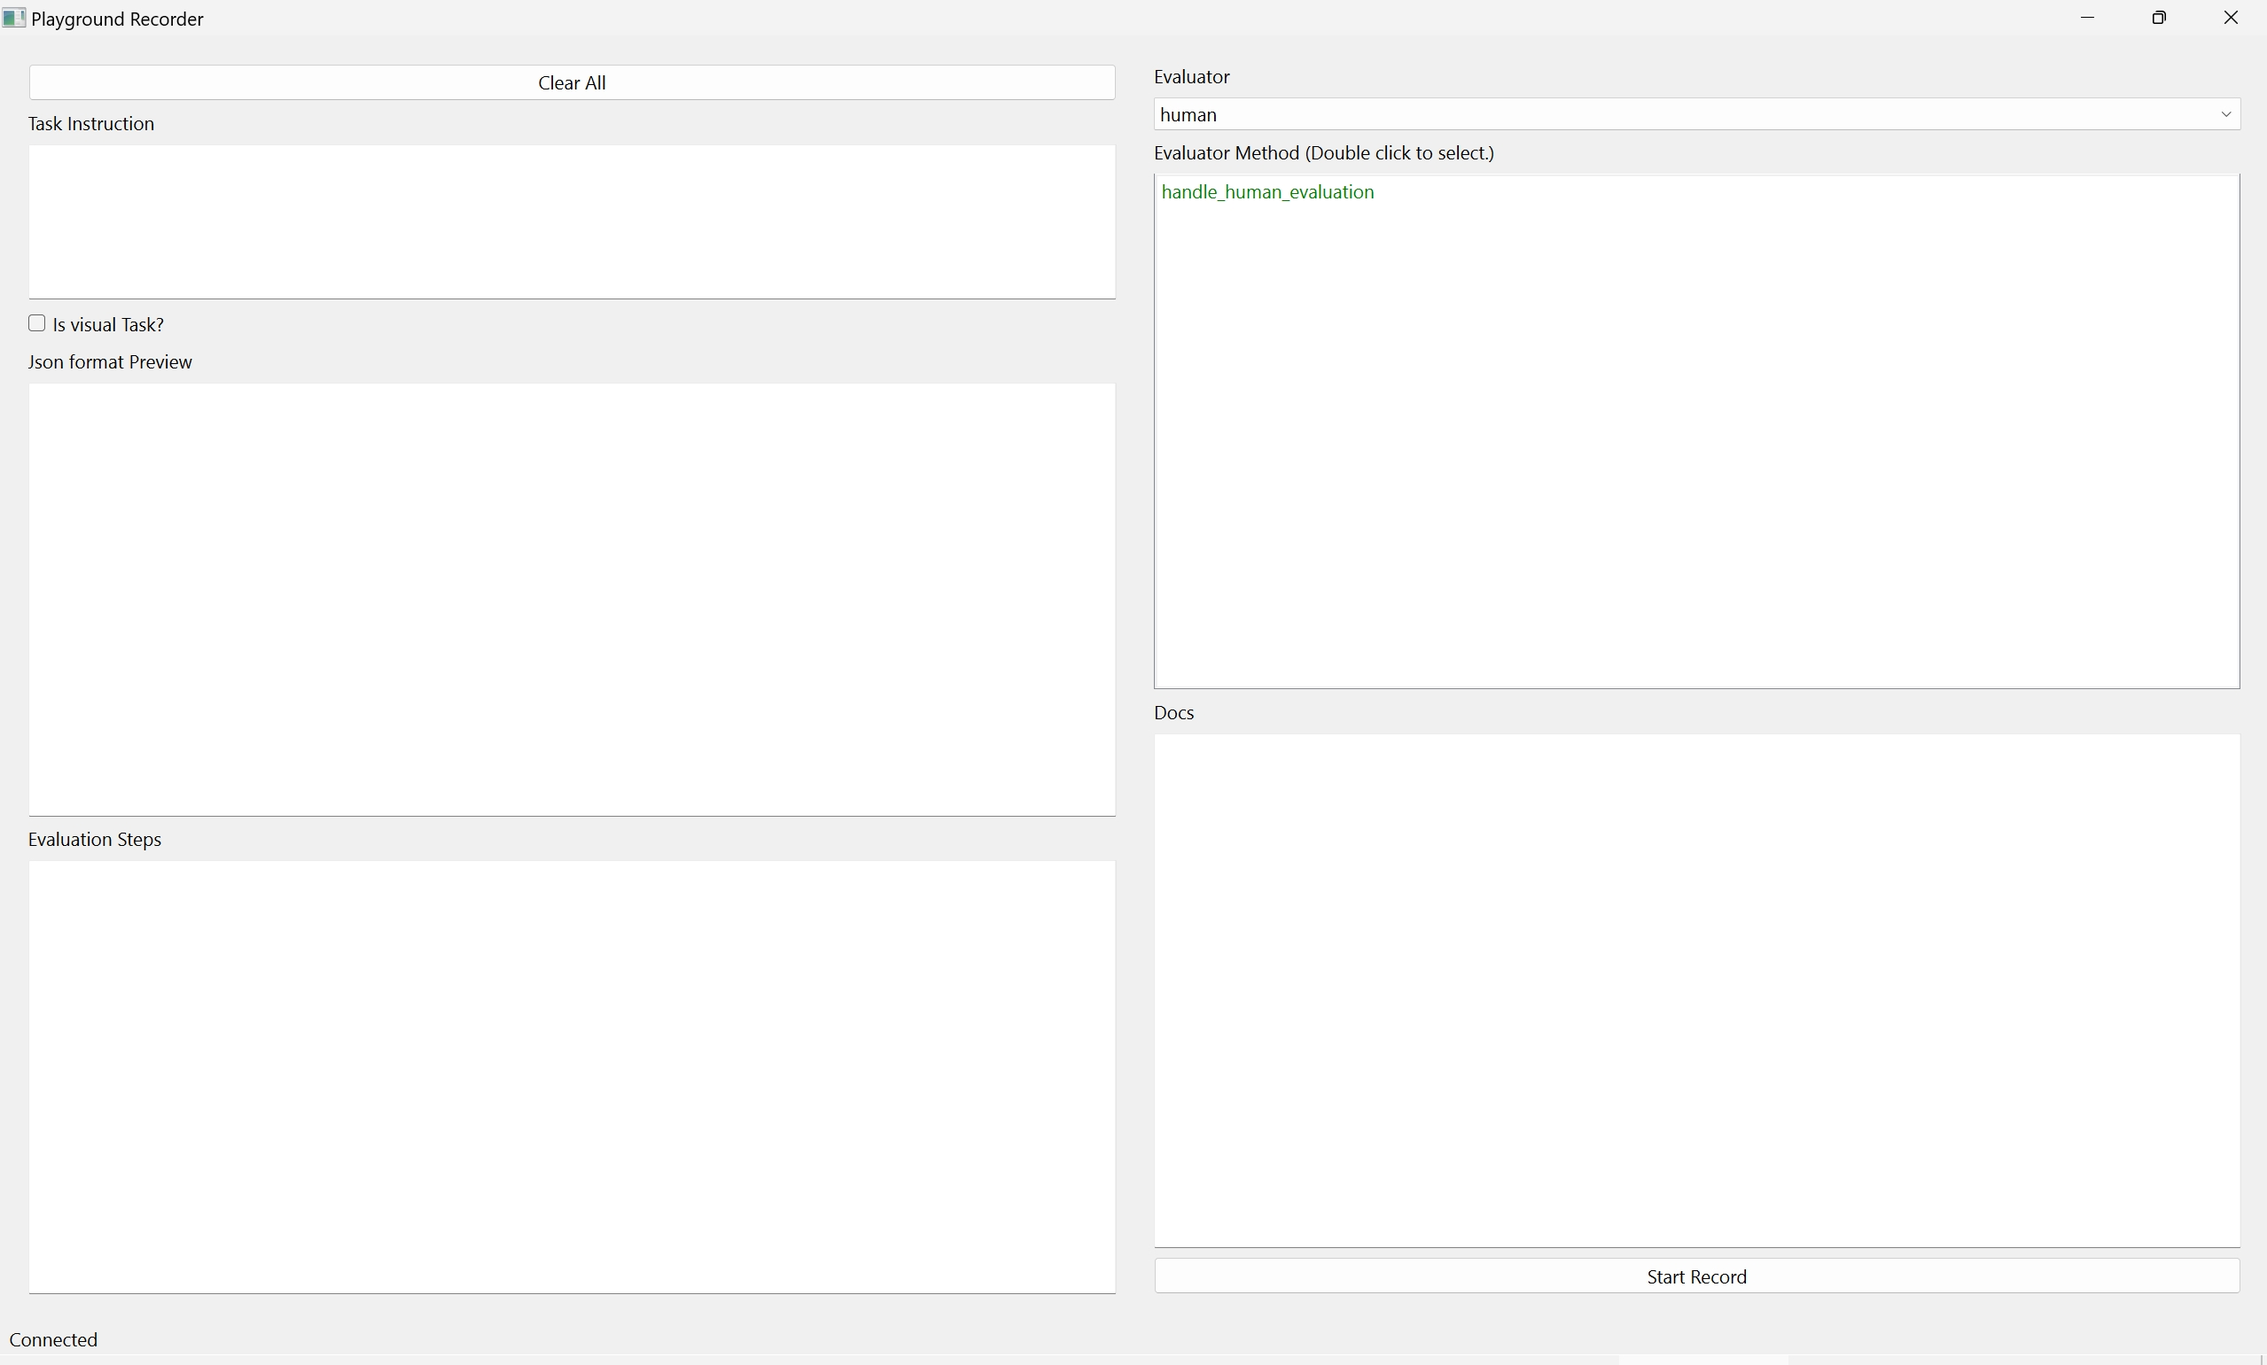
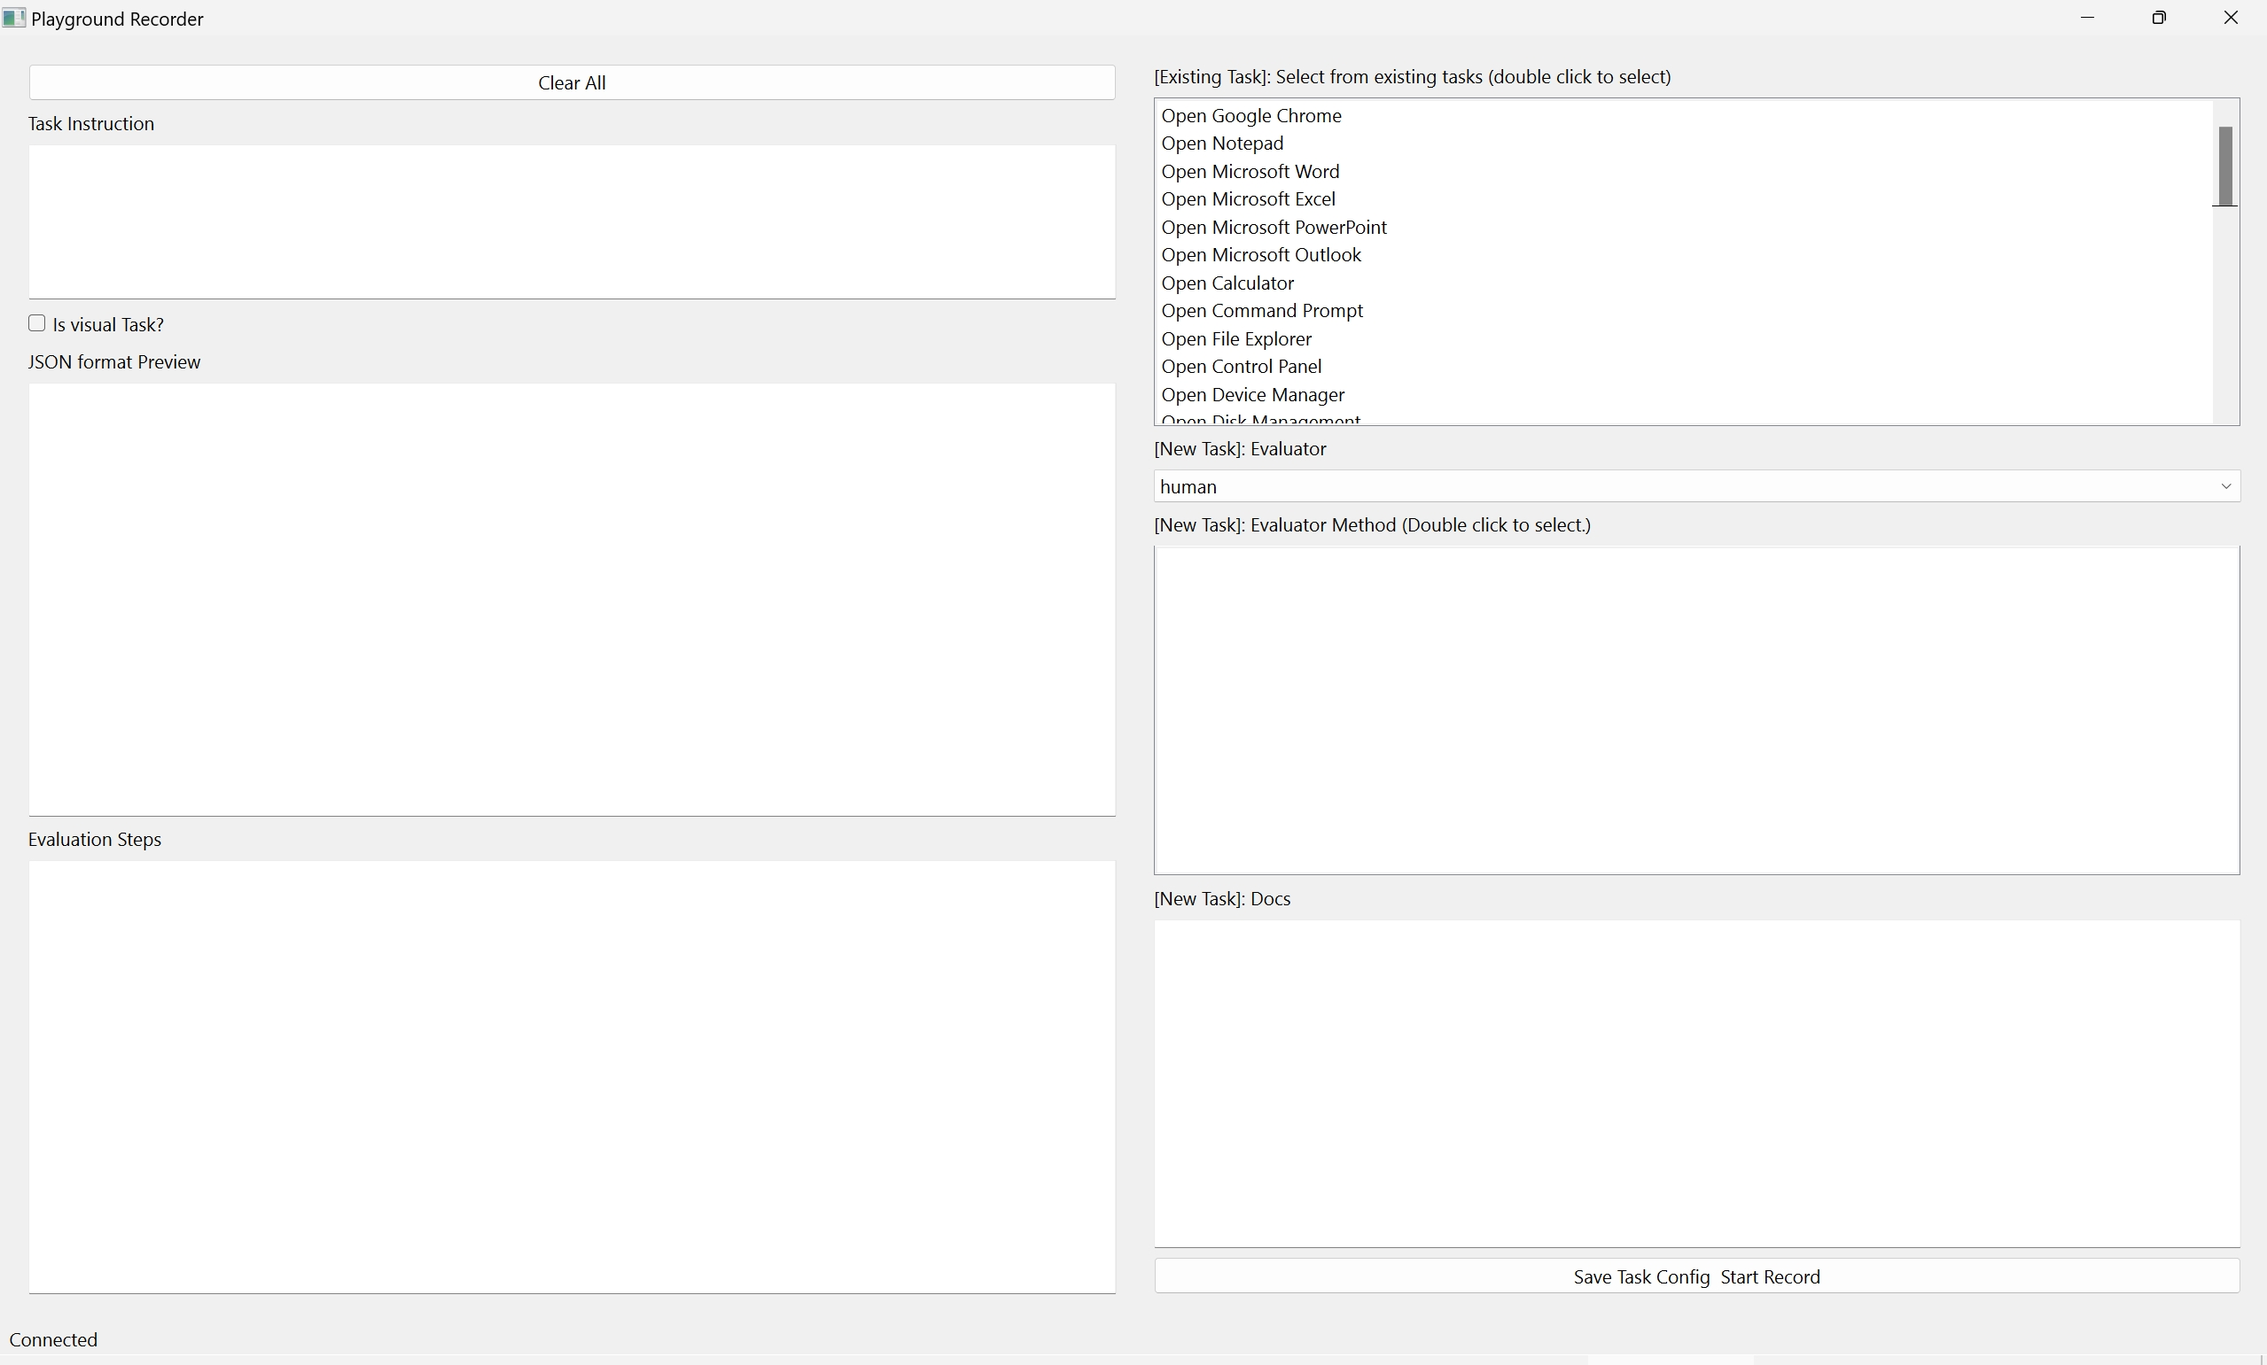
update human interface

diff --git a/playground/env/desktop_env/human_interface.py b/playground/env/desktop_env/human_interface.py
@@ -7,10 +7,11 @@ import os
 import sys
 import uuid
 from asyncio import open_connection
+from pathlib import Path
 
 import numpy as np
 import requests
-from PyQt6.QtCore import QTimer
+from PyQt6.QtCore import QTimer, QThread, pyqtSignal, QObject
 from PyQt6.QtGui import QColor, QImage
 from PyQt6.QtWidgets import (
     QCheckBox,
@@ -33,10 +34,50 @@ from playground.agent.human_agent import HumanAgent
 from playground.config.config import Config
 from playground.env.desktop_env.vnc_client import VNCClient, VNCFrame
 from playground.utils.communication import PlaygroundResponse
-from playground.utils.json_utils import add_jsonl, export_trajectories, format_json
+from playground.utils.json_utils import (
+    add_jsonl,
+    export_trajectories,
+    format_json,
+    read_jsonl,
+)
 
 config = Config()
 logger = logging.getLogger(__name__)
+
+class WorkerSignals(QObject):
+    status_bar_signal = pyqtSignal(str, str)
+    next_action_editor_signal = pyqtSignal(bool)
+    save_button_signal = pyqtSignal(bool)
+    step_action_button_signal = pyqtSignal(bool)
+
+class ResetThread(QThread):
+    def __init__(
+        self,
+        signals: WorkerSignals,
+    ):
+        super().__init__()
+        self.signals = signals
+
+    def run(self):
+        # reset remote runtime
+        self.signals.status_bar_signal.emit(
+            "color: green;", "Task: Resetting runtime..."
+        )
+        response_raw = requests.post(
+            f"http://{config.env_server_addr}:{config.env_server_port}/runtime/reset"
+        )
+        response = PlaygroundResponse(**response_raw.json())
+        assert (
+            response.status == "success"
+        ), f"Fail to reset runtime: {response_raw.text}"
+
+        self.signals.status_bar_signal.emit(
+            "color: green;", "Task: Ready"
+        )
+
+        self.signals.next_action_editor_signal.emit(True)
+        self.signals.save_button_signal.emit(True)
+        self.signals.step_action_button_signal.emit(True)
 
 
 # Function to parse the Python file and extract required information
@@ -115,9 +156,17 @@ def parse_python_file(file_path):
 
 class Task:
     def __init__(
-        self, instruction: str, trajectory: list[str], evals: list[dict], visual: bool
+        self,
+        instruction: str,
+        trajectory: list[str],
+        evals: list[dict],
+        visual: bool,
+        task_id: str | None = None,
     ) -> None:
-        self.task_id = str(uuid.uuid4())
+        if task_id is None:
+            self.task_id = str(uuid.uuid4())
+        else:
+            self.task_id = task_id
         self.instruction = instruction
         self.trajectory = trajectory
         self.evals = evals
@@ -157,12 +206,18 @@ class HumanInterface(QMainWindow):
         self.refreshing_screen = False  # need for refresh flag
         self.last_message = ""
         self.task_config_path = task_config_path
+        self.current_thread: ResetThread | None = None
+        self.task_status_bar: QLabel
+
+        # Task
+        self.selected_task: dict | None = None
+        self.task_configs: list[dict] = []
+        self.current_task: Task | None = None
 
         # VNC
         self.record_path = record_path
         self.vnc: None | VNCClient = None
         self.vnc_lock = asyncio.Lock()
-        self.current_task: Task | None = None
 
         self.evaluator_infos: dict[str, list[dict]] = {}
         self.load_evaluator_args()
@@ -187,6 +242,10 @@ class HumanInterface(QMainWindow):
         main_layout = QHBoxLayout(central_widget)
 
         self.status_bar: QStatusBar = self.statusBar()
+        assert self.status_bar is not None
+
+        self.task_status_bar = QLabel()
+        self.status_bar.addPermanentWidget(self.task_status_bar)
 
         self.vnc_container = QWidget()
         left_layout = QVBoxLayout(self.vnc_container)
@@ -229,26 +288,31 @@ class HumanInterface(QMainWindow):
         self.evaluator_sel_container = QWidget()
         evaluator_sel_layout = QVBoxLayout(self.evaluator_sel_container)
 
-        evaluator_sel_layout.addWidget(QLabel("Evaluator"))
+        evaluator_sel_layout.addWidget(QLabel("[Existing Task]: Select from existing tasks (double click to select)"))
+        self.existing_task_list = QListWidget()
+        self.existing_task_list.itemDoubleClicked.connect(self.task_list_double_clicked)
+        evaluator_sel_layout.addWidget(self.existing_task_list)
+
+        evaluator_sel_layout.addWidget(QLabel("[New Task]: Evaluator"))
         self.evaluator_dropdown = QComboBox()
         self.evaluator_dropdown.addItems(list(self.evaluator_infos.keys()))
         self.evaluator_dropdown.currentIndexChanged.connect(self.evaluator_changed)
         evaluator_sel_layout.addWidget(self.evaluator_dropdown)
 
         evaluator_sel_layout.addWidget(
-            QLabel("Evaluator Method (Double click to select.)")
+            QLabel("[New Task]: Evaluator Method (Double click to select.)")
         )
         self.eval_method_list = QListWidget()
         self.eval_method_list.currentItemChanged.connect(self.list_item_changed)
-        self.eval_method_list.itemDoubleClicked.connect(self.list_item_double_clicked)
+        self.eval_method_list.itemDoubleClicked.connect(self.method_list_double_clicked)
         evaluator_sel_layout.addWidget(self.eval_method_list)
 
-        evaluator_sel_layout.addWidget(QLabel("Docs"))
+        evaluator_sel_layout.addWidget(QLabel("[New Task]: Docs"))
         self.eval_method_doc_display = QTextEdit(self)
         self.eval_method_doc_display.setReadOnly(True)
         evaluator_sel_layout.addWidget(self.eval_method_doc_display)
 
-        self.start_button = QPushButton("Start Record")
+        self.start_button = QPushButton("Save Task Config/Start Record")
         self.start_button.clicked.connect(self.start_record)
         evaluator_sel_layout.addWidget(self.start_button)
 
@@ -301,18 +365,21 @@ class HumanInterface(QMainWindow):
         self.eval_steps_display.setReadOnly(False)
         self.output_display.clear()
         self.output_display.setEnabled(False)
-        self.start_button.setEnabled(True)
+        self.evaluator_changed(0)
+        self.evaluator_dropdown.setEnabled(True)
         self.eval_method_list.clear()
+        self.eval_method_list.setEnabled(True)
         self.save_button.setEnabled(False)
         self.step_action_button.setEnabled(False)
         self.is_visual_checkbox.setEnabled(True)
         self.current_task = None
+        self.selected_task = None
         self.trajectory_container.hide()
         self.vnc_container.hide()
         self.evaluator_sel_container.show()
         self.json_preview_label.show()
         self.json_preview_display.show()
-        self.evaluator_changed(0)
+        self.populate_instruction_selection_widget()
 
     def start_record(self) -> None:
         """Starts the record."""
@@ -334,30 +401,42 @@ class HumanInterface(QMainWindow):
         self.json_preview_label.hide()
         self.json_preview_display.hide()
         self.instruction_editor.setReadOnly(True)
-        self.next_action_editor.setEnabled(True)
         self.output_display.setEnabled(True)
         self.trajectory_display.setEnabled(True)
         self.eval_steps_display.setReadOnly(True)
-        self.start_button.setEnabled(False)
-        self.save_button.setEnabled(True)
-        self.step_action_button.setEnabled(True)
+        self.save_button.setEnabled(False)
+        self.step_action_button.setEnabled(False)
         self.is_visual_checkbox.setEnabled(False)
 
+        if self.selected_task is not None:
+            task_id = self.selected_task["task_id"]
+        else:
+            task_id = None
         self.current_task = Task(
             instruction=self.instruction_editor.toPlainText(),
             trajectory=[],
             evals=evals,
             visual=self.is_visual_checkbox.isChecked(),
+            task_id=task_id,
         )
+        if self.selected_task is None:
+            add_jsonl([self.current_task.to_task_config()], self.task_config_path)
         self.agent.reset(self.current_task.instruction)
-        # reset remote runtime
-        response_raw = requests.post(
-            f"http://{config.env_server_addr}:{config.env_server_port}/runtime/reset"
+        self.worker_signals = WorkerSignals()
+        self.worker_signals.status_bar_signal.connect(self.set_task_status_bar_text)
+        self.worker_signals.next_action_editor_signal.connect(
+            self.next_action_editor.setEnabled
         )
-        response = PlaygroundResponse(**response_raw.json())
-        assert (
-            response.status == "success"
-        ), f"Fail to reset runtime: {response_raw.text}"
+        self.worker_signals.save_button_signal.connect(self.save_button.setEnabled)
+        self.worker_signals.step_action_button_signal.connect(
+            self.step_action_button.setEnabled
+        )
+        self.current_thread = ResetThread(self.worker_signals)
+        self.current_thread.start()
+
+    def set_task_status_bar_text(self, color: str, text: str) -> None:
+        self.task_status_bar.setStyleSheet(color)
+        self.task_status_bar.setText(text)
 
     def load_evaluator_args(
         self,
@@ -407,7 +486,35 @@ class HumanInterface(QMainWindow):
                     self.eval_method_doc_display.setText(docs)
                     break
 
-    def list_item_double_clicked(self, item: QListWidgetItem) -> None:
+    def load_existing_task_configs(self) -> None:
+        jsonl_path = Path(self.task_config_path)
+        if jsonl_path.exists():
+            self.task_configs = read_jsonl(jsonl_path.as_posix())
+        else:
+            self.task_configs = []
+
+    def populate_instruction_selection_widget(self) -> None:
+        self.load_existing_task_configs()
+        self.existing_task_list.clear()
+        for task_config in self.task_configs:
+            item = QListWidgetItem(task_config["instruction"])
+            self.existing_task_list.addItem(item)
+
+    def task_list_double_clicked(self, item: QListWidgetItem) -> None:
+        self.task_instruction = item.text()
+        selected_task_idx = self.existing_task_list.currentRow()
+        self.selected_task = self.task_configs[selected_task_idx]
+        self.eval_steps_display.setPlainText(f"{format_json(self.selected_task['evals'])}")
+        self.is_visual_checkbox.setChecked(self.selected_task["visual"])
+        self.instruction_editor.setPlainText(self.selected_task["instruction"])
+        self.instruction_editor.setReadOnly(True)
+        self.evaluator_dropdown.setEnabled(False)
+        self.eval_method_list.setEnabled(False)
+        self.eval_steps_display.setReadOnly(True)
+        self.is_visual_checkbox.setEnabled(False)
+        self.instruction_editor.setReadOnly(True)
+
+    def method_list_double_clicked(self, item: QListWidgetItem) -> None:
         function_name = item.text()
         evaluator_name = self.evaluator_dropdown.currentText()
         for func in self.evaluator_infos[evaluator_name]:
@@ -470,7 +577,6 @@ class HumanInterface(QMainWindow):
         """Saves the trajectory to the record path."""
         assert self.current_task is not None
         self.step_action_button.setEnabled(False)
-        add_jsonl([self.current_task.to_task_config()], self.task_config_path)
         export_trajectories(
             self_eval_results=None,
             task_config=self.current_task.to_record(),

diff --git a/playground/env/desktop_env/vnc_client.py b/playground/env/desktop_env/vnc_client.py
@@ -61,7 +61,7 @@ async def read_text(reader: StreamReader, encoding: str) -> str:
 
 
 async def skip_to_eof(reader: StreamReader):
-    print("[asyncvnc] skip to eof")
+    logger.warn("[asyncvnc] skip to eof")
     await reader.read(-1)
 
 
@@ -89,7 +89,7 @@ class Clipboard:
         """
         Sends clipboard text to the server.
         """
-        print("[asyncvnc] send clipboard text: ", text)
+        logger.info("[asyncvnc] send clipboard text: ", text)
         data = text.encode("latin-1")
         self.writer.write(b"\x06\x00" + len(data).to_bytes(4, "big") + data)
 
@@ -191,7 +191,6 @@ class Video:
         compress_code_send_message = (
             b"\x02\x00" + compress_code_num_bytes + b"".join(compress_code)
         )
-        print(compress_code_send_message)
         writer.write(compress_code_send_message)
 
         decompress = decompressobj().decompress
@@ -588,7 +587,7 @@ class VNCClient:
             type_id = await read_int(self.reader, 1)
             update_type = UpdateType(type_id)
         except ValueError:
-            print(f"No such type_id: type_id: {type_id}")
+            logger.warn(f"No such type_id: type_id: {type_id}")
             await skip_to_eof(self.reader)
             return None
 

diff --git a/playground/config/config.py b/playground/config/config.py
@@ -15,8 +15,8 @@ class Config(metaclass=Singleton):
     minimal_action_interval: float = 3.0
 
     task_config_paths: dict = {
+        # "desktop": "playground_data/tasks/filesystem.jsonl",
         "desktop": "playground_data/tasks/windows_easy.jsonl",
-        # "desktop": "playground_data/tasks/test.jsonl",
     }
 
     stop_code: str = "\nexit()"

diff --git a/README.md b/README.md
@@ -64,19 +64,31 @@ The first screen is a task configuration interface, where you can create a new t
 
 ![](./imgs/recorder_task_config.png)
 
-Following the steps below to create a new task:
-1. Input the task instruction.
-2. Select the task type (whether is visual task or not).
-3. Select the evaluator from the dropdown list.
-4. Select the evaluator methods from the list table. Single click will display the method description in "Docs" and double click will show the method example JSON snippet in "Json format preview".
-5. Edit the "Evaluation Steps" input box, which should be a list of steps to evaluate the task. The format should match the "evals" field in task configuration JSON format.
-6. Click the "Start Record" button to start the task.
+You can choose to record an existing task or create a new task. The following are the steps to record a task:
+
++ Record an existing task:
+    1. Choose task from the top right list.
+    3. Click the "Save Task Config/Start Record" button to start recording.
+    ![](./imgs/recorder_choose_existing.png)
++ Create & Record new task:
+    1. Input the task instruction.
+    2. Select the task type (whether is visual task or not).
+    3. Select the evaluator from the dropdown list.
+    4. Select the evaluator methods from the list table. Single click will display the method description in "Docs" and double click will show the method example JSON snippet in "JSON format preview".
+    5. Edit the "Evaluation Steps" input box, which should be a list of steps to evaluate the task. The format should match the "evals" field in task configuration JSON format.
+    6. Click the "Save Task Config/Start Record" button to start recording.
+    ![](./imgs/recorder_create_new.png)
 
 The recording interface is shown below:
 
 ![](./imgs/recorder_record.png)
 
-The recording interface is divided into three parts: the left part is the VNC window, task configuration created in the previous step is displayed in the middle part, and the right part is the action panel.
+The recording interface is divided into three parts: the left part is the VNC window, task configuration created in the previous step is displayed in the middle part, and the right part is the "Action" panel. To record a task, you need to perform the following steps:
+1. Input actions (currently is Python code) in the "Action" panel.
+2. Click the "Step Action" button to execute the actions.
+3. See the result in the VNC window and "Runtime Response" panel.
+4. Repeat the above steps until the task is completed.
+5. Click the "Save" button to save the recording.
 
 ---
 
